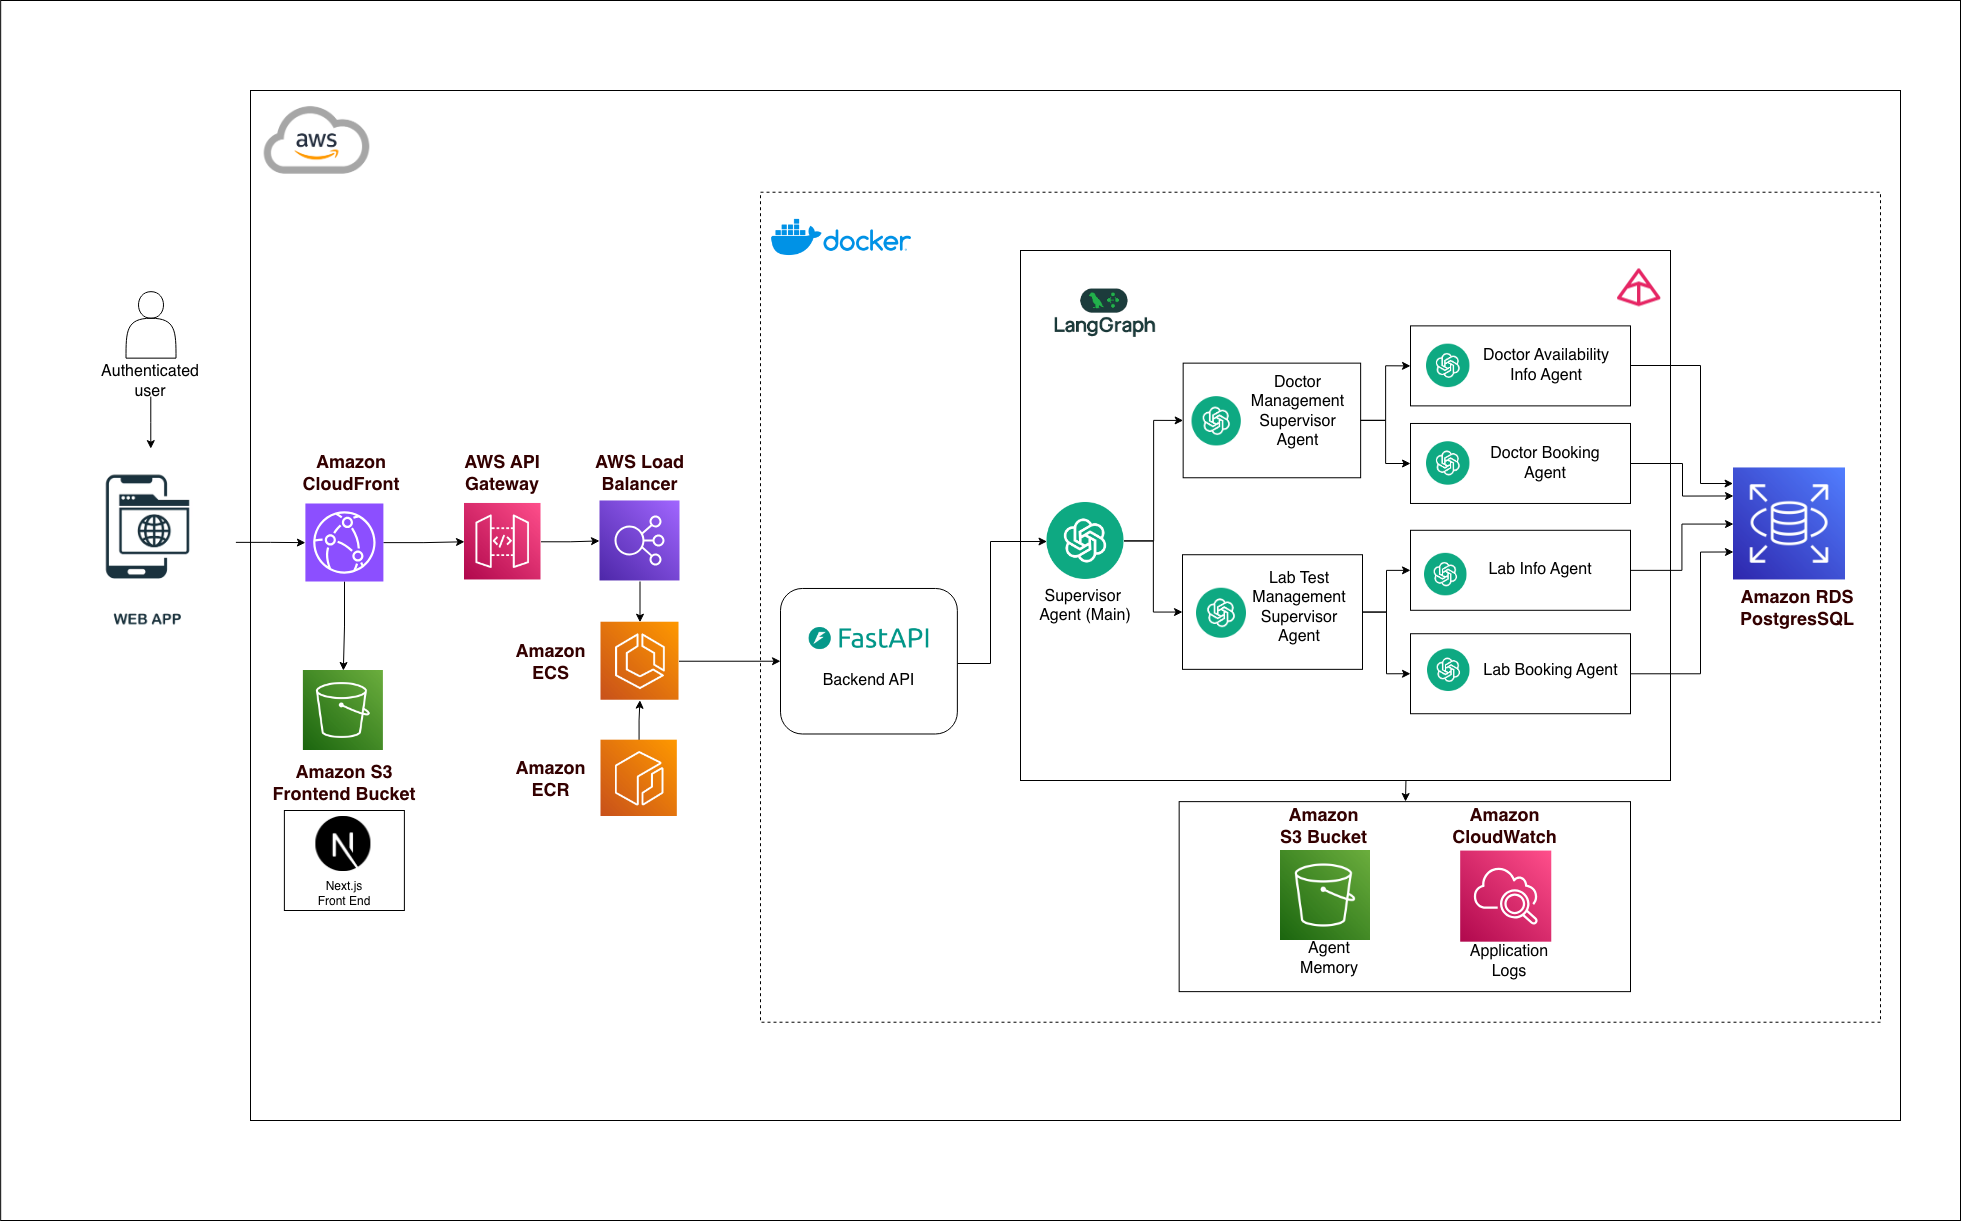
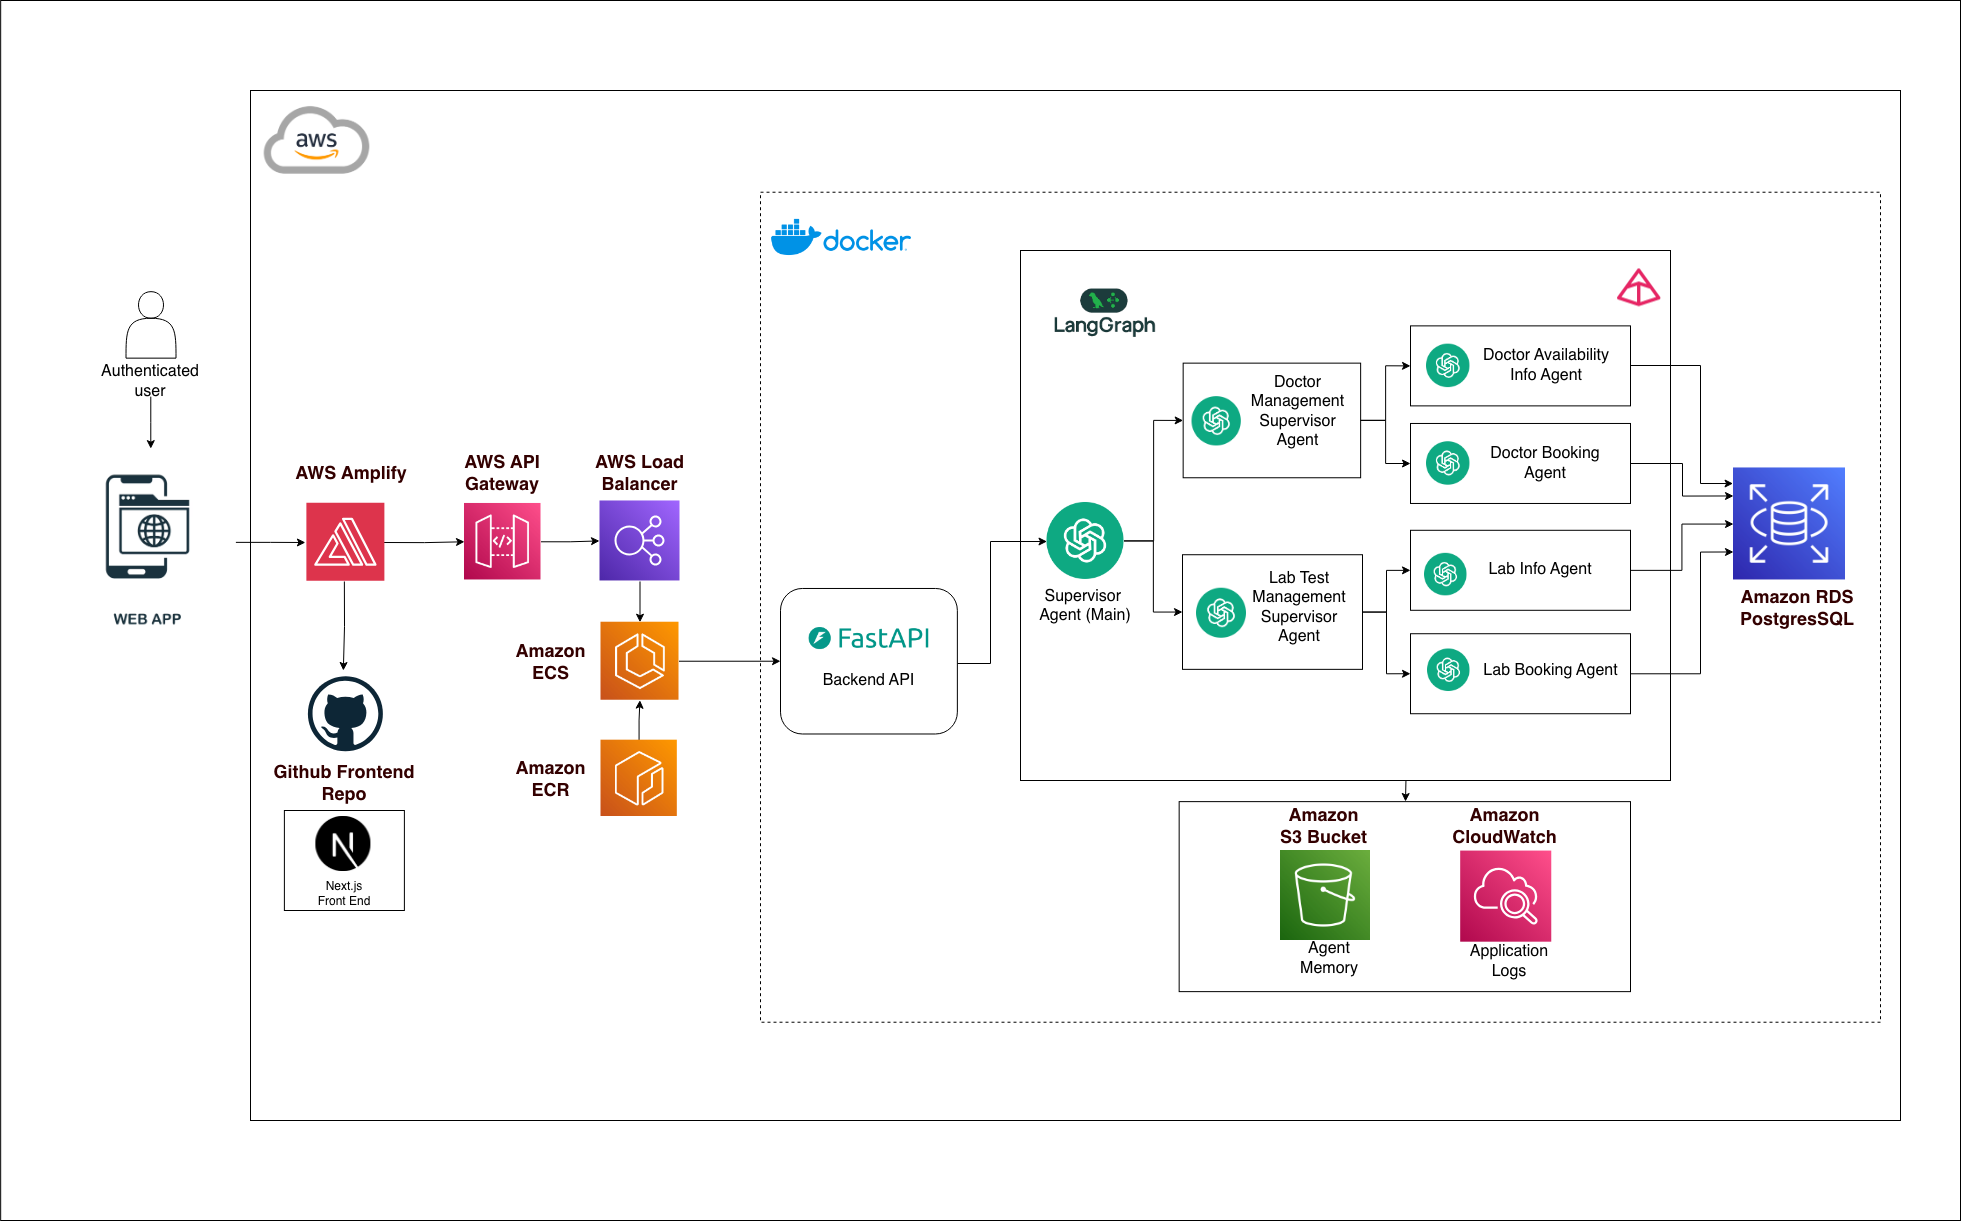
updated architecture diagram in README.md

Changed region(s): [[0.1244, 0.5291, 0.2177, 0.6536], [0.1555, 0.3735, 0.2177, 0.498]]

diff --git a/README.md b/README.md
@@ -4,11 +4,15 @@ A sophisticated multi-agent AI system for managing medical appointments and lab 
 
 ## Architecture
 
-This system implements a **supervisor-agent pattern** using LangGraph, where a supervisor agent intelligently routes patient queries to specialized agents:
+This system implements a **hierarchical supervisor-agent pattern** using LangGraph, where a main supervisor agent routes queries to specialized supervisor agents, which in turn manage individual worker agents:
 
-- **Supervisor Agent**: Routes queries to appropriate specialized agents
-- **Doctor Appointment Agent**: Handles appointment scheduling, doctor selection, and booking management
-- **Lab & Diagnostics Agent**: Manages lab test requests and diagnostic appointments
+- **Supervisor Agent (Main)**: Primary orchestrator that routes requests to specialized supervisor agents
+  - **Doctor Management Supervisor Agent**: Manages doctor-related operations
+    - **Doctor Availability Info Agent**: Provides doctor availability information
+    - **Doctor Booking Agent**: Handles appointment bookings
+  - **Lab Test Management Supervisor Agent**: Manages lab test-related operations
+    - **Lab Info Agent**: Provides lab test information
+    - **Lab Booking Agent**: Handles lab test bookings
 
 ### System Architecture Diagram
 
@@ -21,27 +25,27 @@ The following diagram illustrates the complete cloud-native architecture of the 
 The system is deployed on AWS with the following components:
 
 **Frontend Layer:**
-- **Next.js Frontend**: React-based web application deployed as static files
-- **Amazon S3**: Stores static frontend assets
-- **Amazon CloudFront**: Content Delivery Network (CDN) for fast global content delivery
-- **Authenticated Users**: Access the web application through CloudFront
+- **Next.js Frontend**: React-based web application with Server-Side Rendering (SSR) support
+- **AWS Amplify**: Hosts and deploys the frontend application with CI/CD integration
+- **GitHub Frontend Repo**: Source code repository that Amplify monitors for automatic deployments
+- **Authenticated Users**: Access the web application through AWS Amplify
 
 **Backend Layer:**
 - **AWS API Gateway**: Entry point for API requests from the frontend
 - **AWS Load Balancer**: Distributes traffic across multiple backend instances
 - **Amazon ECS (Fargate)**: Container orchestration service running Docker containers
-- **Amazon ECR**: Container registry storing Docker images
-- **FastAPI Backend API**: Python-based REST API handling business logic
+- **Amazon ECR**: Container registry storing Docker images for ECS deployment
+- **FastAPI Backend API**: Python-based REST API handling business logic and agent orchestration
 
-**AI Agent System (LangGraph):**
-- **Supervisor Agent (Main)**: Primary orchestrator that routes requests to specialized agents
-- **Doctor Management Supervisor Agent**: Manages doctor-related operations
-- **Lab Test Management Supervisor Agent**: Manages lab test-related operations
-- **Individual Agents**:
-  - Doctor Availability Info Agent: Provides doctor availability information
-  - Doctor Booking Agent: Handles appointment bookings
-  - Lab Info Agent: Provides lab test information
-  - Lab Booking Agent: Handles lab test bookings
+**AI Agent System (LangGraph & Docker):**
+- **Supervisor Agent (Main)**: Primary orchestrator that routes requests to specialized supervisor agents
+  - **Doctor Management Supervisor Agent**: Manages doctor-related operations and routes to:
+    - **Doctor Availability Info Agent**: Provides doctor availability information and schedules
+    - **Doctor Booking Agent**: Handles appointment bookings, cancellations, and rescheduling
+  - **Lab Test Management Supervisor Agent**: Manages lab test-related operations and routes to:
+    - **Lab Info Agent**: Provides lab test information and prerequisites
+    - **Lab Booking Agent**: Handles lab test bookings and scheduling
+- All agents are containerized using Docker and orchestrated through LangGraph
 
 **Data Layer:**
 - **Amazon RDS PostgreSQL**: Relational database for persistent data storage
@@ -51,13 +55,17 @@ The system is deployed on AWS with the following components:
 - **Amazon CloudWatch**: Centralized logging and monitoring for all components
 
 **Data Flow:**
-1. Authenticated users interact with the web application
-2. Static content is served by CloudFront from S3
-3. API requests are routed through CloudFront → API Gateway → Load Balancer → ECS
-4. FastAPI backend processes requests through the LangGraph agent system
-5. Agents interact with RDS PostgreSQL for data operations
-6. Conversation memory is stored/retrieved from S3
-7. All components log to CloudWatch for monitoring
+1. Authenticated users interact with the web application hosted on AWS Amplify
+2. AWS Amplify pulls the Next.js frontend from the GitHub Frontend Repository
+3. API requests from the frontend are routed through AWS API Gateway
+4. API Gateway forwards requests to AWS Load Balancer
+5. Load Balancer distributes traffic to Amazon ECS (Fargate) containers
+6. FastAPI backend processes requests through the LangGraph agent system
+7. The Supervisor Agent (Main) routes to appropriate specialized supervisor agents
+8. Specialized supervisor agents delegate to individual worker agents
+9. Individual agents interact with Amazon RDS PostgreSQL for data operations
+10. Conversation memory is stored/retrieved from Amazon S3 (Agent Memory bucket)
+11. All components log to Amazon CloudWatch for monitoring and observability
 
 ## Features
 
@@ -66,8 +74,9 @@ The system is deployed on AWS with the following components:
 - **Doctor Scheduling**: Real-time availability checking and appointment booking
 - **Lab Test Management**: Request and schedule lab tests and diagnostics
 - **Cloud-Native Architecture**: Fully deployed on AWS with scalable infrastructure
-- **Containerized Backend**: Docker-based deployment on ECS Fargate
-- **Static Frontend**: Optimized static site deployment on S3 + CloudFront
+- **Containerized Backend**: Docker-based deployment on ECS Fargate with ECR image registry
+- **CI/CD Frontend**: Automated deployment via AWS Amplify with GitHub integration
+- **Server-Side Rendering**: Next.js SSR support for dynamic content delivery
 - **Modern UI**: Clean, responsive Next.js frontend with real-time chat interface
 
 ## Project Structure
@@ -235,20 +244,35 @@ docker build -t agenticai-backend .
    - Set up Load Balancer and API Gateway
    - Configure security groups and IAM roles
 
-#### Frontend Deployment (AWS S3 + CloudFront)
+#### Frontend Deployment (AWS Amplify)
 
-1. Build static export:
+1. Push code to GitHub repository:
 ```bash
-cd frontend
-npm run build
+git add .
+git commit -m "Deploy frontend"
+git push origin main
 ```
 
-2. Deploy to S3:
+2. Connect to AWS Amplify:
+   - Go to AWS Amplify Console
+   - Click "New app" → "Host web app"
+   - Connect your GitHub repository
+   - Select the repository and branch
+   - Amplify will auto-detect Next.js and configure build settings
 
-3. Configure CloudFront:
-   - Set up distribution pointing to S3 bucket
-   - Configure error pages (404/403 → index.html) for client-side routing
-   - Set up SSL certificate and custom domain (optional)
+3. Configure build settings:
+   - Amplify will use the `amplify.yml` file in the repository root
+   - Set environment variables in Amplify Console:
+     - `NEXT_PUBLIC_BACKEND_URL`: Your backend API Gateway URL
+   - Amplify will automatically:
+     - Build the Next.js application
+     - Deploy with SSR support
+     - Set up CloudFront distribution
+     - Configure SSL certificates
+
+4. Custom domain (optional):
+   - Configure custom domain in Amplify Console
+   - Amplify handles SSL certificate provisioning automatically
 
 ## API Endpoints
 
@@ -299,20 +323,25 @@ Health check endpoint for monitoring.
 
 ### Frontend Configuration
 
-- **Static Export**: Configured in `frontend/next.config.js` with `output: 'export'`
-- **Backend URL**: Set via `NEXT_PUBLIC_BACKEND_URL` environment variable
-- **Images**: Unoptimized for static export compatibility
+- **Next.js SSR**: Configured in `frontend/next.config.js` (SSR enabled for Amplify)
+- **Backend URL**: Set via `NEXT_PUBLIC_BACKEND_URL` environment variable in Amplify Console
+- **Amplify Build**: Configured via `amplify.yml` in repository root
+- **Images**: Can be optimized or unoptimized depending on deployment needs
 
 ### AWS Infrastructure
 
-- **RDS PostgreSQL**: Database for persistent data
+- **AWS Amplify**: Frontend hosting with CI/CD, SSR support, and automatic deployments
+- **GitHub Integration**: Source code repository connected to Amplify for automatic builds
+- **RDS PostgreSQL**: Database for persistent data storage
 - **S3 Buckets**: 
-  - Frontend static assets
-  - Agent conversation memory
+  - Agent conversation memory storage
+  - (Frontend assets are managed by Amplify automatically)
 - **ECS Fargate**: Containerized backend deployment
-- **CloudFront**: CDN for frontend delivery
-- **API Gateway**: API endpoint management
-- **CloudWatch**: Logging and monitoring
+- **ECR**: Container registry for Docker images
+- **API Gateway**: API endpoint management and routing
+- **Load Balancer**: Traffic distribution across ECS tasks
+- **CloudFront**: CDN automatically configured by Amplify for frontend delivery
+- **CloudWatch**: Logging and monitoring for all components
 
 ## Development
 
@@ -347,7 +376,7 @@ The system includes:
 - **TypeScript**: Type-safe frontend development
 - **Tailwind CSS**: Utility-first CSS framework
 - **Docker**: Containerization for backend deployment
-- **AWS Services**: ECS, S3, CloudFront, RDS, API Gateway, CloudWatch
+- **AWS Services**: Amplify, ECS, ECR, S3, CloudFront, RDS, API Gateway, Load Balancer, CloudWatch
 - **boto3**: AWS SDK for Python (S3 operations)
 
 ## Contributing
